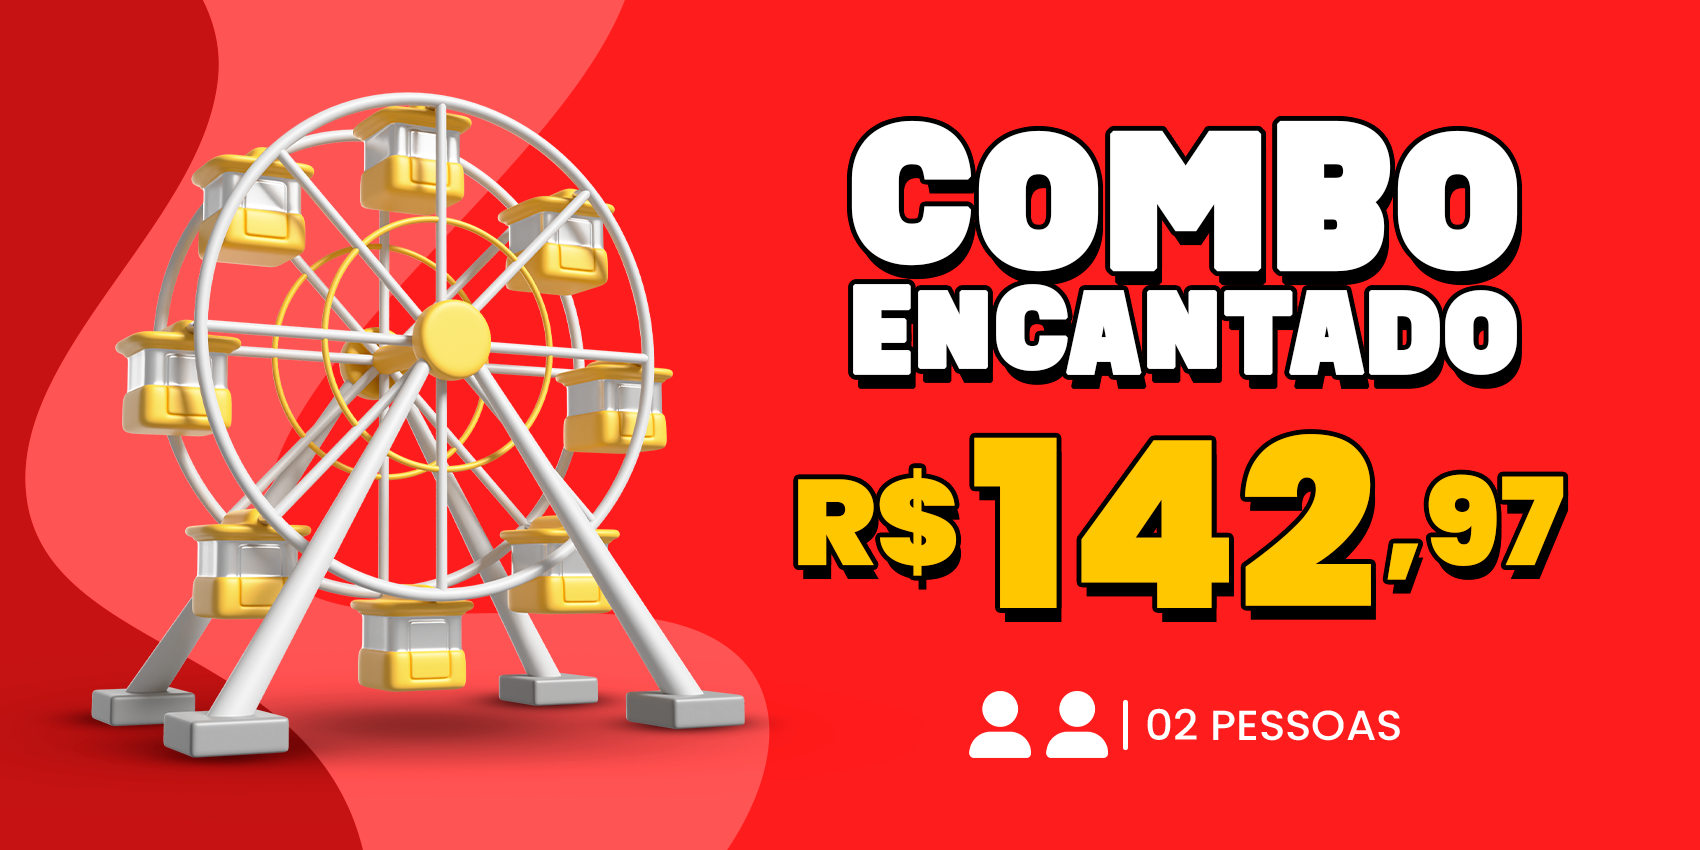
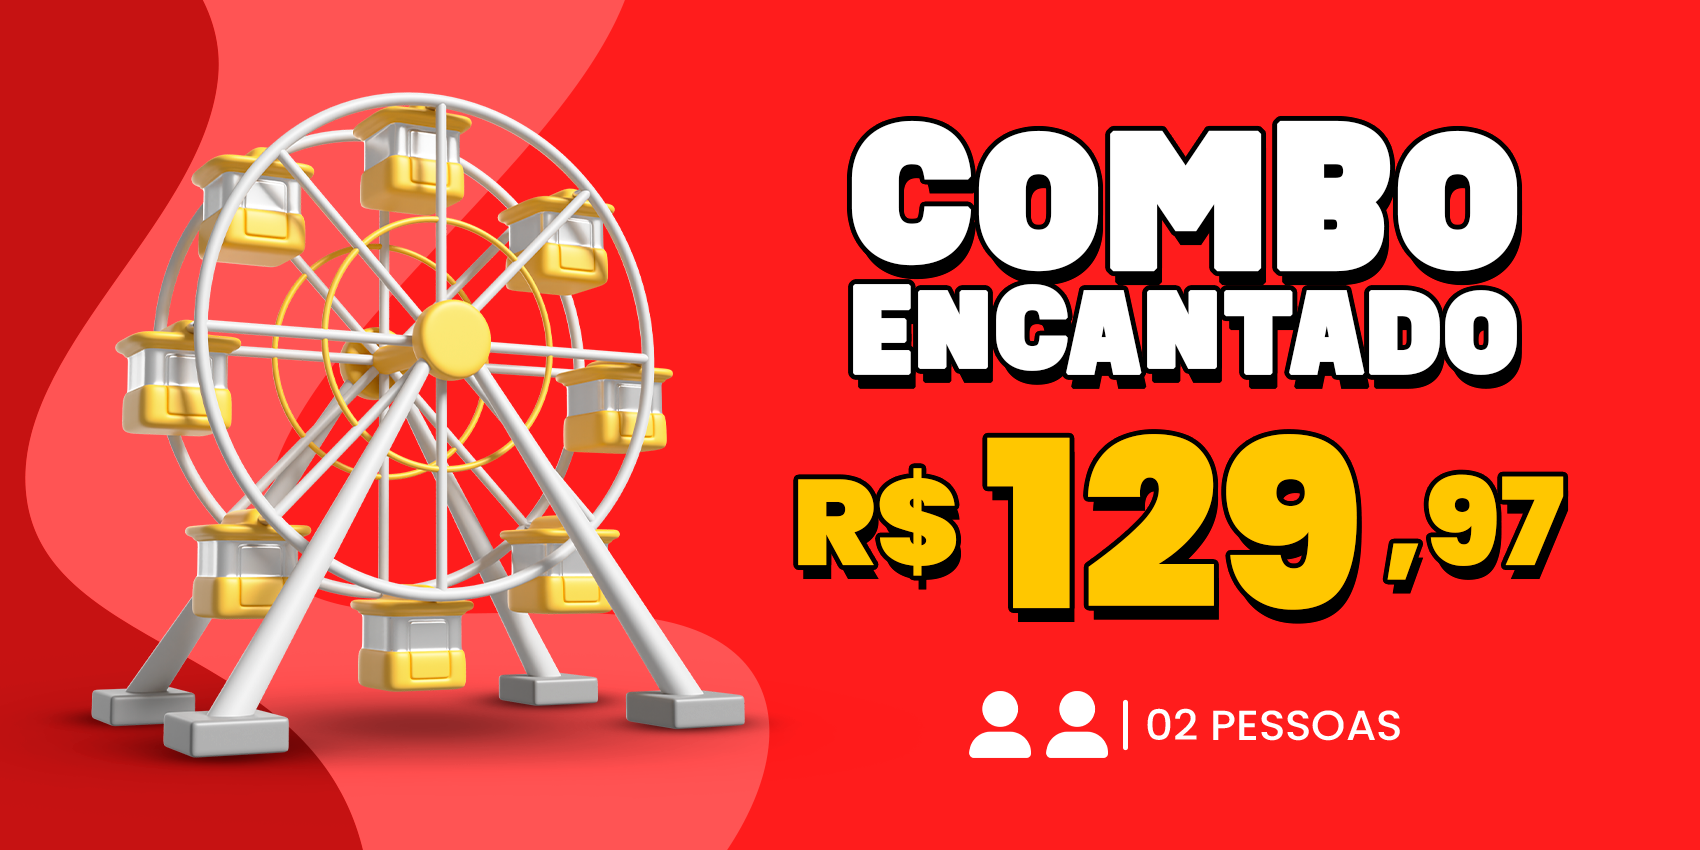
new campain

Changed region(s): [[0.5612, 0.4894, 0.8106, 0.7341]]

diff --git a/src/pages/passaportes.tsx b/src/pages/passaportes.tsx
@@ -39,7 +39,7 @@ export default function PassaportsPage() {
           </h1>
 
           <div className="grid grid-cols-1 md:grid-cols-2 lg:grid-cols-3 gap-10">
-            {(nowSP.getDay() >= 1 && nowSP.getDay() <= 4) ||
+            {(nowSP.getDay() >= 1 && nowSP.getDay() <= 3) ||
             (nowSP.getDay() === 0 && nowSP.getHours() >= 20) ? (
               <Ticket
                 id={7}
@@ -47,38 +47,38 @@ export default function PassaportsPage() {
                 price={4997}
                 banner={PassaporteAntecipado}
                 quantity={1}
-                reference={5997}
+                reference={6997}
                 isPassport
               />
             ) : (
               <Ticket
                 id={2}
                 name="Passaporte Individual"
-                price={5997}
+                price={6997}
                 banner={PassaporteIndividual}
                 quantity={1}
-                reference={5997}
+                reference={6997}
                 isPassport
               />
             )}
-            {/* <Ticket
+            <Ticket
               id={3}
               name="Combo Encantado"
-              price={14297}
+              price={12997}
               banner={ComboEncantado}
               quantity={2}
-              reference={5997}
+              reference={6997}
               isPassport
             />
             <Ticket
               id={4}
               name="Combo Espetacular"
-              price={19797}
+              price={15997}
               banner={ComboEspetacular}
               quantity={3}
-              reference={5997}
+              reference={6997}
               isPassport
-            /> */}
+            />
           </div>
 
           <h2 className="mt-10 lg:mt-16 mb-5 lg:mb-10 font-bold text-center md:text-start text-4xl md:text-4xl lg:text-5xl text-white">

diff --git a/src/components/organisms/Tickets.tsx b/src/components/organisms/Tickets.tsx
@@ -31,7 +31,7 @@ export default function Tickets() {
       spaceBetween={30}
     >
       <SwiperSlide>
-        {(nowSP.getDay() >= 1 && nowSP.getDay() <= 4) ||
+        {(nowSP.getDay() >= 1 && nowSP.getDay() <= 3) ||
         (nowSP.getDay() === 0 && nowSP.getHours() >= 20) ? (
           <Ticket
             id={7}
@@ -39,29 +39,29 @@ export default function Tickets() {
             price={4997}
             banner={PassaporteAntecipado}
             quantity={1}
-            reference={5997}
+            reference={6997}
             isPassport
           />
         ) : (
           <Ticket
             id={2}
             name="Passaporte Individual"
-            price={5997}
+            price={6997}
             banner={PassaporteIndividual}
             quantity={1}
-            reference={5997}
+            reference={6997}
             isPassport
           />
         )}
       </SwiperSlide>
-      {/* <SwiperSlide>
+      <SwiperSlide>
         <Ticket
           id={3}
           name="Combo Encantado"
-          price={14297}
+          price={12997}
           banner={ComboEncantado}
           quantity={2}
-          reference={5997}
+          reference={6997}
           isPassport
         />
       </SwiperSlide>
@@ -69,13 +69,13 @@ export default function Tickets() {
         <Ticket
           id={4}
           name="Combo Espetacular"
-          price={19797}
+          price={16997}
           banner={ComboEspetacular}
           quantity={3}
-          reference={5997}
+          reference={6997}
           isPassport
         />
-      </SwiperSlide> */}
+      </SwiperSlide>
     </Swiper>
   )
 }

diff --git a/src/pages/index.tsx b/src/pages/index.tsx
@@ -7,8 +7,10 @@ import SlideVideo from '@/components/atoms/SlideVideo'
 import Ticket from '@/components/molecules/Ticket'
 import Attractions from '@/components/organisms/Attractions'
 import Tickets from '@/components/organisms/Tickets'
-import BannerOneMobile from '@/public/images/banners/one-mobile.png'
+import BannerComboPipocaWeb from '@/public/images/banners/combo-pipoca-desktop.png'
+import BannerComboPipocaMobile from '@/public/images/banners/combo-pipoca-mobile.png'
 import BannerOneWeb from '@/public/images/banners/one-desktop.png'
+import BannerOneMobile from '@/public/images/banners/one-mobile.png'
 import NicoAppDark from '@/public/images/brands/nicoapp-dark.svg'
 import ComboFamilia from '@/public/images/combos/combo-familia.png'
 import ComboKabum from '@/public/images/combos/combo-kabum.jpeg'
@@ -61,6 +63,14 @@ export default function HomePage() {
               alt="Diversão para toda a Família!"
               mobile={BannerOneMobile}
               desktop={BannerOneWeb}
+              priority
+            />
+          </SwiperSlide>
+          <SwiperSlide>
+            <SlideImage
+              alt="Diversão para toda a Família!"
+              mobile={BannerComboPipocaMobile}
+              desktop={BannerComboPipocaWeb}
               priority
             />
           </SwiperSlide>
